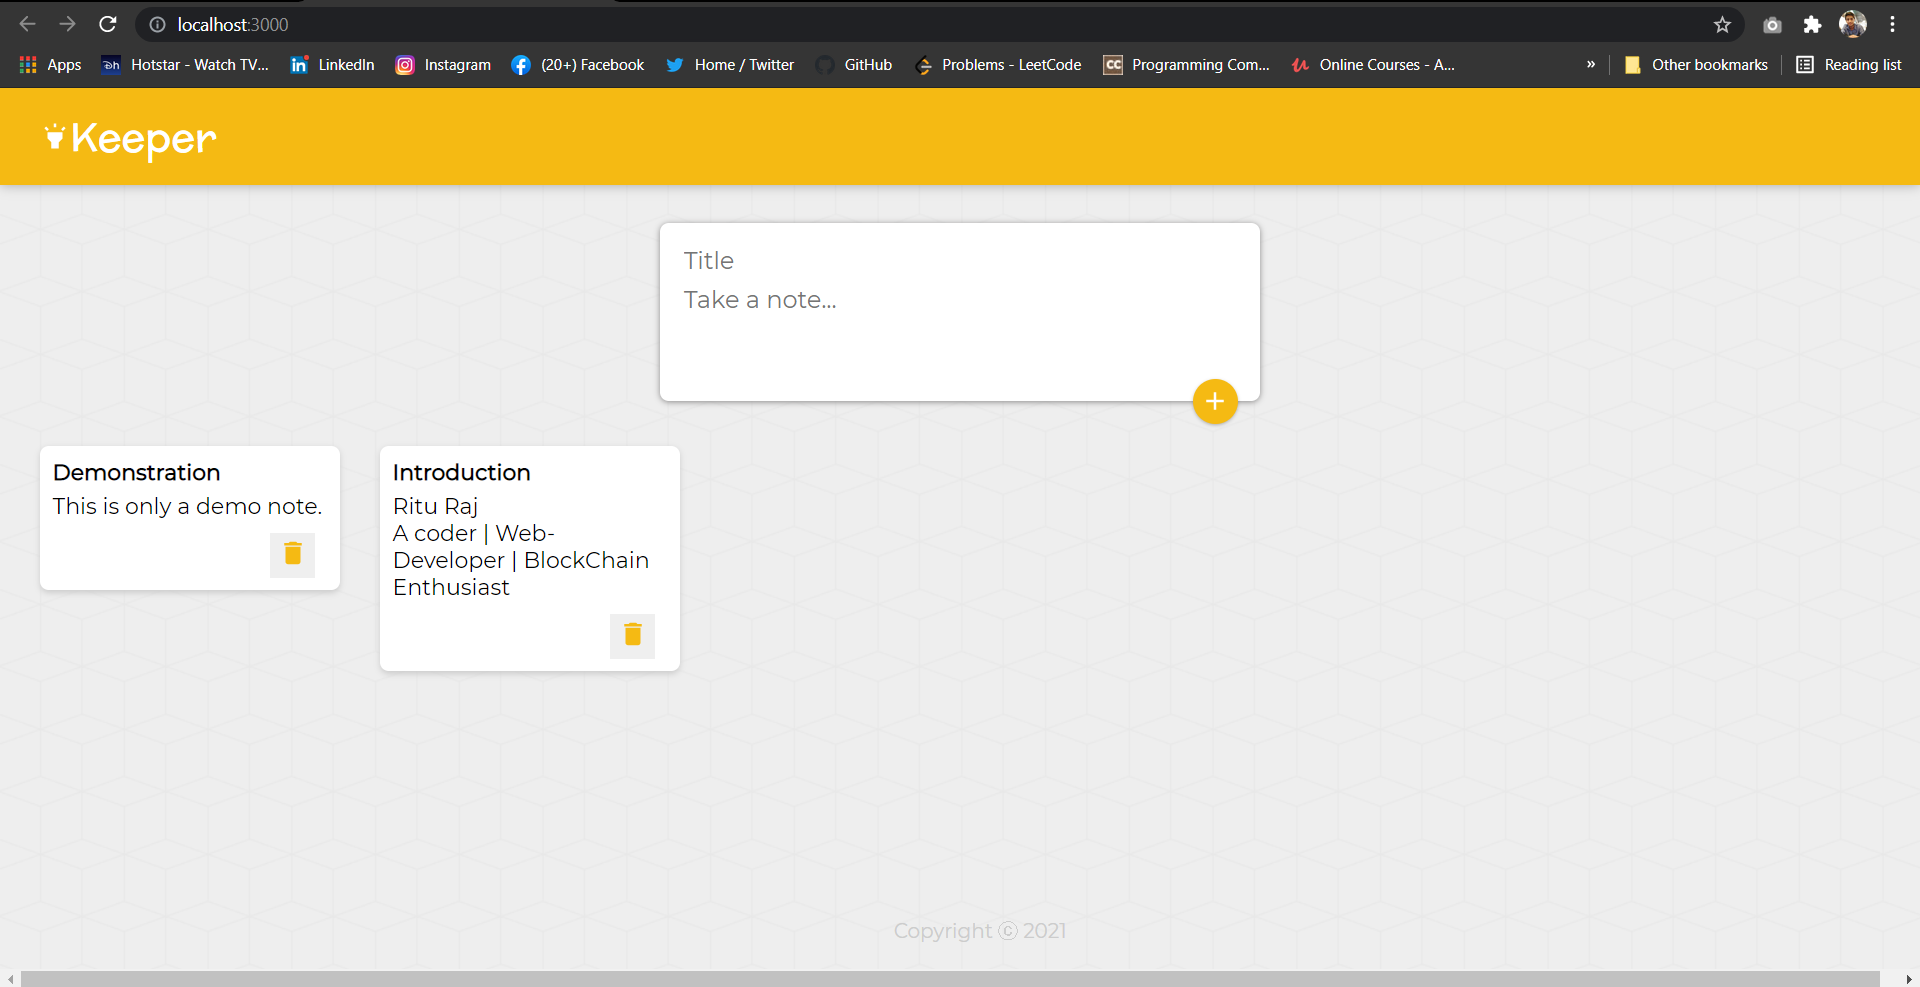
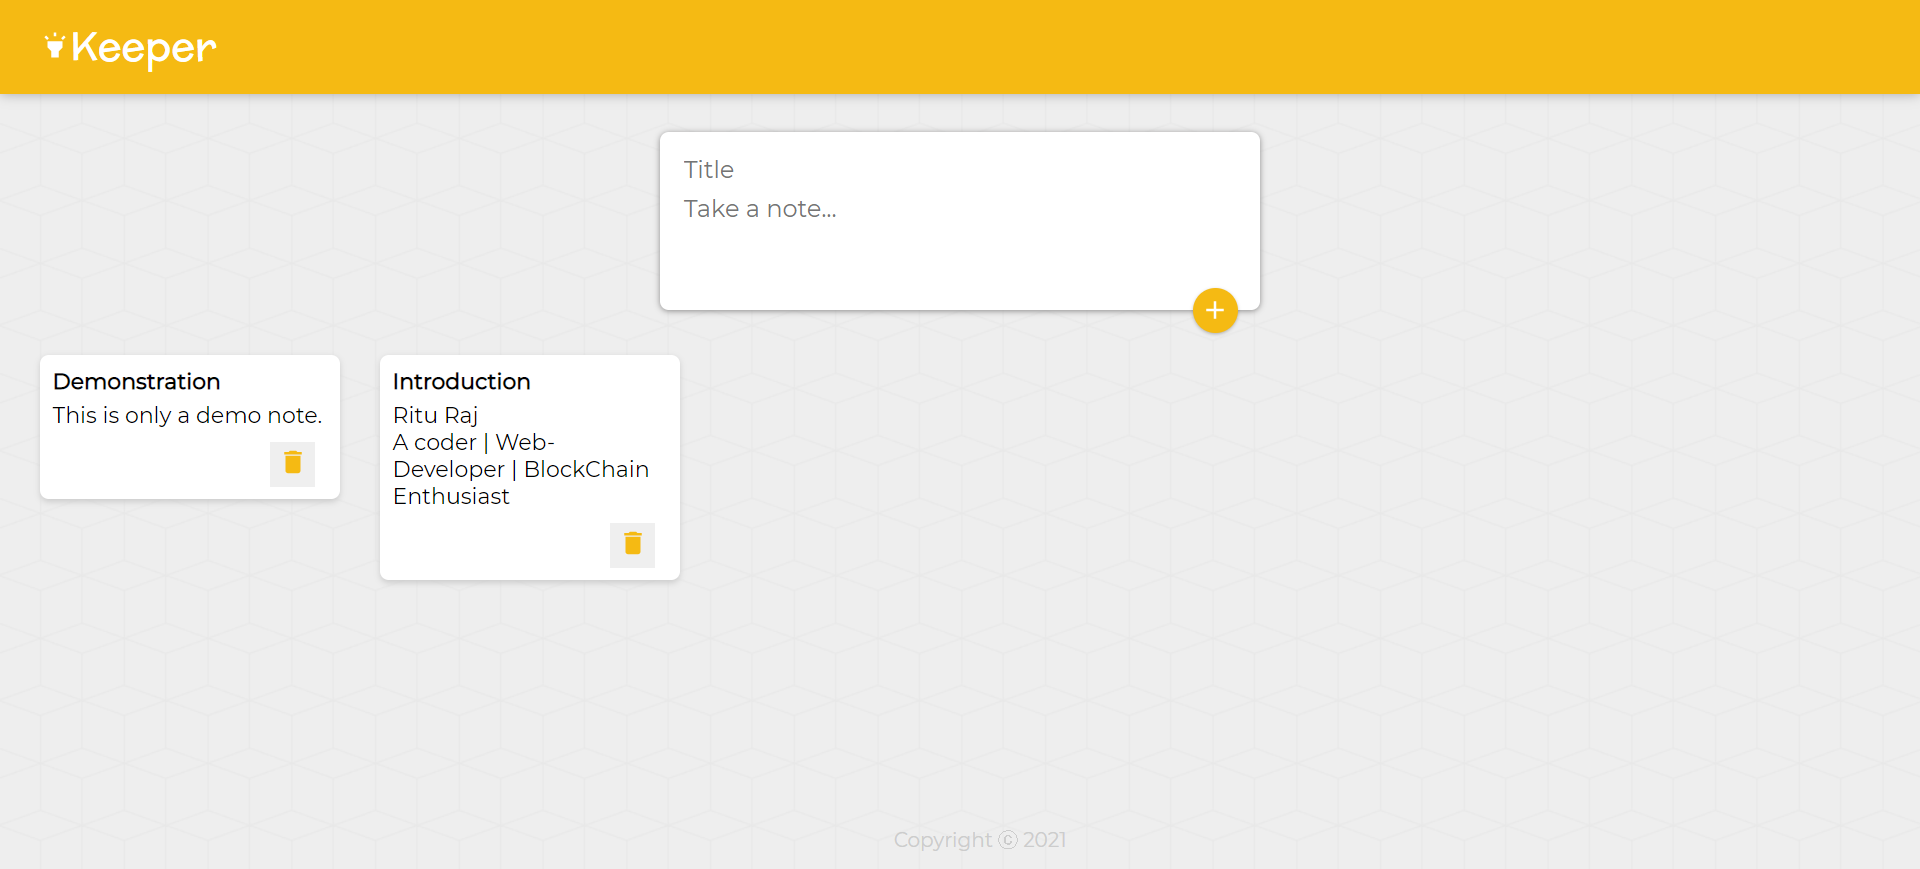
final project images added

diff --git a/src/resumeData.js b/src/resumeData.js
@@ -67,8 +67,8 @@ let resumeData = {
     "portfolio":[
       {
         "name":"Project1",
-        "description":"Health-Tracker-Web-App",
-        "imgurl":"images/portfolio/health-tracker.png"
+        "description":"Personal-Notes-Keeper",
+        "imgurl":"images/portfolio/personal-notes-app.png"
       },
       {
         "name":"project2",
@@ -77,8 +77,8 @@ let resumeData = {
       },
       {
         "name":"project3",
-        "description":"ToDo-List-Website",
-        "imgurl":"images/portfolio/todo-list-app.png"
+        "description":"Blog-Website",
+        "imgurl":"images/portfolio/blogIt-website.png"
       },
       {
         "name":"project4",

diff --git a/public/index.html b/public/index.html
@@ -26,7 +26,7 @@
 <link rel="stylesheet" href="%PUBLIC_URL%/css/magnific-popup.css">
 
 <script src="%PUBLIC_URL%/js/modernizr.js"></script>
-<title>Sample resume</title>
+<title>My-Portfolio</title>
   </head>
   <body>
     <noscript>
